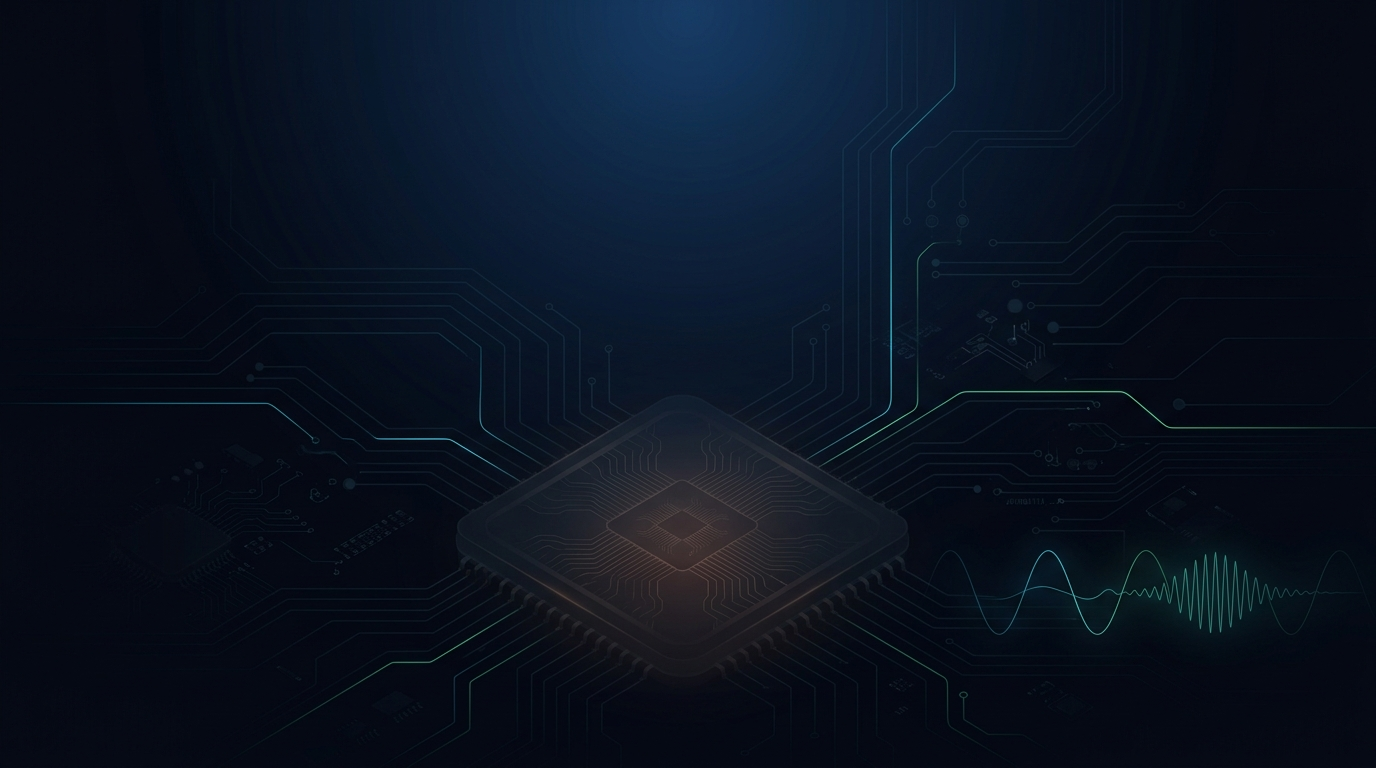
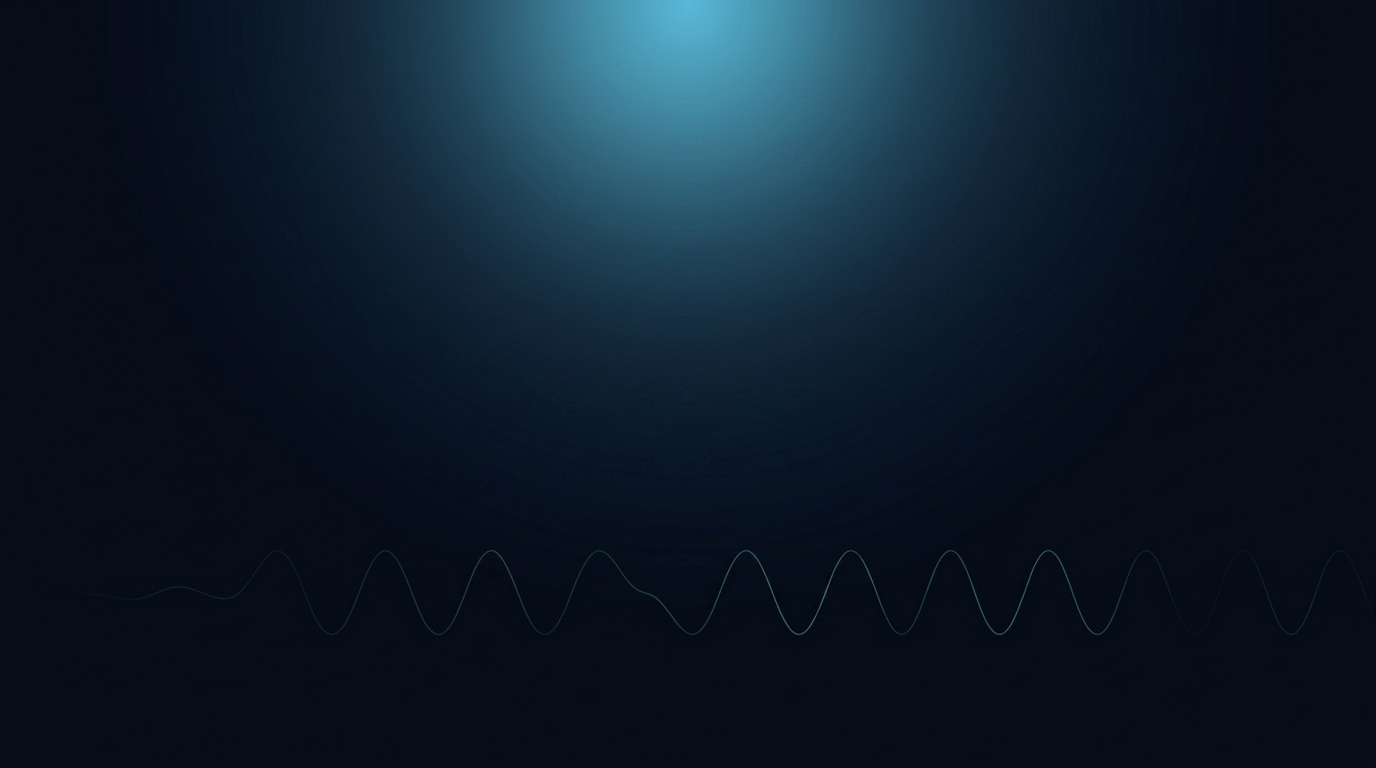
Stable backup after update

diff --git a/style.css b/style.css
@@ -1441,3 +1441,269 @@ nav #nav-links a{
 /* Key term emphasis helper */
 strong, b{ color:var(--head); font-weight:700; }
 em, i.term{ color:var(--teal); font-style:italic; }
+
+
+
+
+/* ============================================================
+   PREMIUM PASS — navbar, icon chips, typography (overrides)
+   Confident bold type · crisp glass nav · cohesive icon badges
+   ============================================================ */
+
+/* ---------- TYPOGRAPHY: cooler, more confident hierarchy ---------- */
+
+body{
+    font-weight:400;
+    letter-spacing:.1px;
+    line-height:1.65;
+}
+
+.metal-title{
+    font-weight:700;
+    letter-spacing:-1px;
+    line-height:1.02;
+}
+
+.section-title h2,
+.about-project-card h3,
+.project-title-card h3{
+    font-weight:700;
+    letter-spacing:-.5px;
+    line-height:1.12;
+}
+
+/* eyebrow label — refined uppercase tracking */
+.section-title span{
+    letter-spacing:3px;
+    font-size:.82rem;
+    text-transform:uppercase;
+}
+
+.ece-card h3,
+.career-card h3,
+.future-card h3,
+.team-card h3,
+.info-card h3,
+.roadmap-card h3{
+    font-weight:700;
+    letter-spacing:-.2px;
+}
+
+/* ============================================================
+   NAVBAR — refined "funded" glass pill
+   ============================================================ */
+
+nav{
+    top:20px;
+    width:92%;
+    max-width:1180px;
+    padding:10px 14px 10px 12px;
+    gap:22px;
+    background:linear-gradient(180deg,rgba(17,28,56,.78),rgba(11,19,40,.72));
+    backdrop-filter:blur(26px) saturate(140%);
+    -webkit-backdrop-filter:blur(26px) saturate(140%);
+    border:1px solid rgba(255,255,255,.12);
+    border-radius:999px;
+    box-shadow:
+        0 18px 50px rgba(0,0,0,.5),
+        inset 0 1px 0 rgba(255,255,255,.12),
+        inset 0 -1px 0 rgba(0,0,0,.25);
+}
+
+.home-icon{
+    width:40px;
+    height:40px;
+    font-size:15px;
+    border-radius:50%;
+    background:linear-gradient(150deg,rgba(255,255,255,.14),rgba(255,255,255,.03));
+    border:1px solid rgba(255,255,255,.14);
+    transition:transform .25s ease,box-shadow .25s ease,color .25s ease,border-color .25s ease;
+}
+
+.home-icon:hover{
+    transform:translateY(-1px) scale(1.04);
+    box-shadow:0 0 22px rgba(0,212,255,.4);
+}
+
+.logo{
+    font-size:1.06rem;
+    font-weight:700;
+    letter-spacing:.6px;
+    text-shadow:0 0 22px rgba(0,212,255,.25);
+}
+
+#nav-links{
+    gap:6px;
+    padding:3px;
+    background:rgba(255,255,255,.04);
+    border:1px solid rgba(255,255,255,.07);
+    border-radius:999px;
+}
+
+/* base link = a pill slot; the highlight is a sliding pill behind it */
+nav #nav-links a{
+    padding:8px 16px;
+    border-radius:999px;
+    font-size:.92rem;
+    font-weight:600;
+    letter-spacing:.3px;
+    color:var(--text);
+    transition:color .28s ease,background .28s ease,box-shadow .28s ease;
+}
+
+/* clean pill highlight on hover + active — replaces the noisy text-clip shine */
+nav #nav-links a:hover,
+nav #nav-links a.active{
+    background:linear-gradient(180deg,rgba(0,212,255,.20),rgba(0,212,255,.08)) !important;
+    -webkit-background-clip:border-box !important;
+    background-clip:border-box !important;
+    -webkit-text-fill-color:currentColor !important;
+    color:#eafaff !important;
+    animation:none !important;
+    text-shadow:0 0 16px rgba(0,212,255,.35);
+    box-shadow:
+        inset 0 0 0 1px rgba(0,212,255,.35),
+        0 4px 16px rgba(0,212,255,.18);
+}
+
+nav #nav-links a.active{
+    font-weight:700;
+    background:linear-gradient(180deg,rgba(0,212,255,.30),rgba(34,211,238,.12)) !important;
+}
+
+/* retire the old underline indicator (pill highlight now does the job) */
+nav #nav-links a.active::after{ display:none; }
+
+.menu-toggle{
+    border-radius:14px;
+    background:linear-gradient(150deg,rgba(255,255,255,.13),rgba(255,255,255,.03));
+    transition:transform .25s ease,box-shadow .25s ease,border-color .25s ease;
+}
+
+.menu-toggle:hover{
+    border-color:var(--border-glow);
+    box-shadow:0 0 18px rgba(0,212,255,.3);
+}
+
+/* ============================================================
+   ICONS — cohesive glass "chip" badges with soft cyan glow
+   ============================================================ */
+
+/* big card icon glyphs sit in a rounded gradient chip */
+.icon,
+.career-icon,
+.future-icon,
+.team-icon,
+.info-icon{
+    display:inline-flex;
+    align-items:center;
+    justify-content:center;
+    width:64px;
+    height:64px;
+    margin-bottom:20px;
+    font-size:1.6rem;
+    border-radius:18px;
+    background:linear-gradient(150deg,rgba(0,212,255,.18),rgba(61,255,158,.06));
+    border:1px solid rgba(0,212,255,.28);
+    box-shadow:
+        inset 0 1px 0 rgba(255,255,255,.18),
+        0 8px 22px rgba(0,180,255,.18);
+}
+
+/* center the chip on centered cards */
+.career-card .career-icon,
+.future-card .future-icon,
+.team-card .team-icon,
+.info-card .info-icon{
+    margin-left:auto;
+    margin-right:auto;
+}
+
+.icon i,
+.career-icon i,
+.future-icon i,
+.team-icon i,
+.info-icon i{
+    color:var(--cyan);
+    font-size:1.5rem;
+    filter:drop-shadow(0 0 10px rgba(0,212,255,.5));
+}
+
+/* inline heading glyphs — small aligned cyan accent */
+.ece-card h3 i,
+.career-card h3 i,
+.future-card h3 i,
+.roadmap-card h3 i,
+.about-project-card h3 i,
+.objective-card h3 i,
+.about-card h3 i,
+.feature-card h3 i{
+    color:var(--cyan);
+    margin-right:9px;
+    filter:drop-shadow(0 0 8px rgba(0,212,255,.4));
+}
+
+.ece-card a i{ margin-right:8px; }
+
+/* floating background glyphs — intentional + subtle */
+.floating-icon{
+    font-size:46px;
+    opacity:.06;
+    color:var(--cyan);
+    filter:drop-shadow(0 0 18px rgba(0,212,255,.35));
+}
+
+.floating-icon i{ font-size:inherit; line-height:1; }
+
+/* ============================================================
+   MOBILE NAV — cleaner dropdown panel + open animation
+   ============================================================ */
+
+@media(max-width:768px){
+
+    nav{
+        border-radius:20px;
+        padding:10px 14px;
+    }
+
+    #nav-links{
+        top:72px;
+        right:8px;
+        width:248px;
+        padding:10px;
+        gap:4px;
+        background:linear-gradient(180deg,rgba(15,25,52,.98),rgba(11,19,40,.98));
+        border:1px solid rgba(255,255,255,.12);
+        border-radius:20px;
+        box-shadow:0 22px 50px rgba(0,0,0,.6),inset 0 1px 0 rgba(255,255,255,.08);
+        transform-origin:top right;
+    }
+
+    #nav-links.active{
+        display:flex;
+        animation:navDrop .28s cubic-bezier(.2,.8,.2,1) both;
+    }
+
+    #nav-links li a{
+        padding:13px 16px;
+        border-radius:14px;
+        font-weight:600;
+        letter-spacing:.3px;
+    }
+
+    #nav-links li a:hover,
+    #nav-links li a.active{
+        background:linear-gradient(180deg,rgba(0,212,255,.18),rgba(0,212,255,.06)) !important;
+        box-shadow:inset 0 0 0 1px rgba(0,212,255,.3);
+    }
+}
+
+@keyframes navDrop{
+    from{ opacity:0; transform:translateY(-10px) scale(.97); }
+    to{ opacity:1; transform:translateY(0) scale(1); }
+}
+
+/* respect reduced motion for the new dropdown animation */
+@media(prefers-reduced-motion:reduce){
+    #nav-links.active{ animation:none !important; }
+}